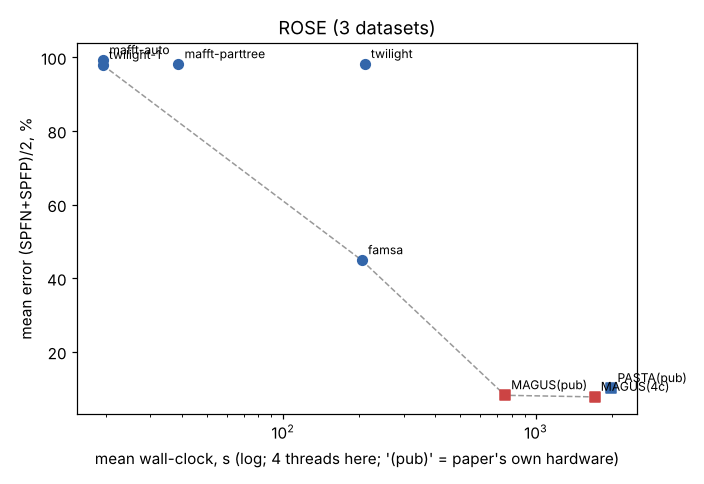
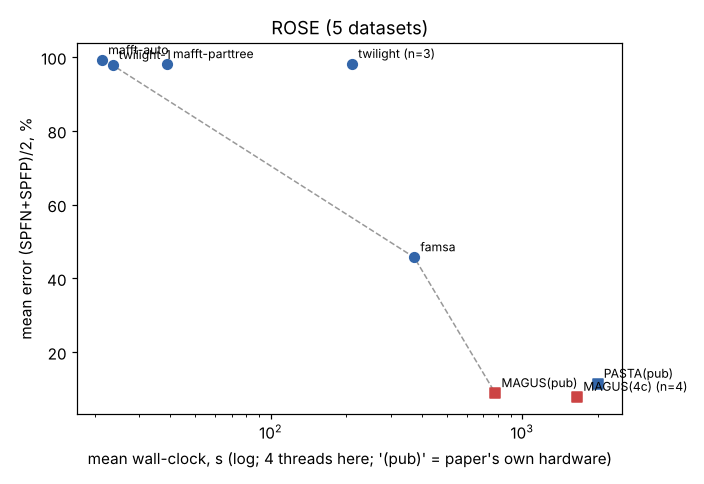
sota2026: more results (ROSE M, merge pilot BAliBASE)
Claude-Session: https://claude.ai/code/session_012Rgpxy2uEEPz2XSy4Tz17n

diff --git a/cs581/sota2026/REPORT_head.md b/cs581/sota2026/REPORT_head.md
@@ -1,0 +1,98 @@
+# Is MAGUS still state of the art, and is "MAGUS with a better base method" a good 4-week project?
+
+*CS581 project-idea pilot, 2026-10-10. Branch `claude/cs581-sota2026`. Code in `code/`, raw results in `results/`.
+About 4.5 hours of wall-clock on one 4-core / 15 GB cloud machine. Every number below was measured in this session,
+except where it says "published", which means FastSP rescoring of the MAGUS paper's own output alignments
+(`../experiments/validation/published_scores.jsonl`).*
+
+## 1. Questions
+
+1. On MAGUS's own benchmarks, is MAGUS (Smirnov & Warnow 2021) still the best accuracy/runtime trade-off against
+   aligners published since? Candidates: TWILIGHT (2025), FAMSA 2, MUSCLE5/Super5, Clustal Omega, MAFFT
+   (`--auto`, PartTree, L-INS-i) and learnMSA2.
+2. On MAGUS-sized subsets (about 40 and 200 sequences), is any of them more accurate than MAFFT L-INS-i? This is the
+   instructor's suggested first step for "study MAGUS with different base methods".
+3. (Added, because the harness made it cheap.) If a candidate swaps in for L-INS-i inside MAGUS, does MAGUS's
+   final alignment improve?
+
+## 2. Prior art (details and DOIs: `prior_art.md`)
+
+- **No independent 2023–2026 benchmark exists.** No paper runs TWILIGHT, FAMSA2, Muscle5, Clustal Omega and the MAFFT
+  modes against MAGUS, PASTA or UPP2 on MAGUS's nucleotide suite (ROSE 1000, RNASim, CRW 16S). Every nucleotide
+  comparison was run by the method's own developers.
+- **TWILIGHT** (Tseng et al., *Bioinformatics* 2025, doi:10.1093/bioinformatics/btaf212) is the only post-2023 paper
+  that compares a fast tool with MAGUS on nucleotides, and only on RNASim (10k–1M) and AliSim.
+  - At 10k sequences, MAGUS and Muscle5 are about 8% error. TWILIGHT reaches 6.5% at 1M sequences in 32 CPU-minutes.
+  - On AliSim long-branch data, MAGUS is best (8.3% vs about 9%).
+  - Competitors were given the *true* tree. There is no ROSE, CRW or BAliBASE.
+- **FAMSA2** (Nat Biotechnol 2026, doi:10.1038/s41587-026-03095-3) and **learnMSA2** (Bioinformatics 2024,
+  doi:10.1093/bioinformatics/btae381) are protein-only.
+  - learnMSA2 "supports only protein alignments". On CPU with language-model embeddings it takes about 3 h per
+    HomFam family (about 16× MAGUS).
+  - Neither paper compares against MAGUS on nucleotides.
+- **Muscle5** (Nat Commun 2022, doi:10.1038/s41467-022-34630-w) has no nucleotide benchmark beyond small Bralibase
+  RNA sets and no MAGUS comparison.
+- **UPP2** (2023, doi:10.1093/bioinformatics/btad007) is the broadest nucleotide comparison: UPP2 ≈ MAGUS are best on
+  ROSE and large 16S, and Clustal Omega is worst. It used MUSCLE 3.8, not 5.
+- **Base-method swaps exist only for PASTA, not MAGUS.**
+  - PASTA with BAli-Phy subsets (Nute & Warnow 2016, doi:10.1186/s12864-016-3101-8) has the best TC everywhere at
+    roughly 24 h/subset.
+  - PASTA with ProbCons or G-INS-i subsets has been tested on BAliBASE only (Collins & Warnow 2018,
+    doi:10.1093/bioinformatics/bty495).
+  - Beating L-INS-i on ≤ 200 nucleotide sequences has only been shown for BAli-Phy with a fixed tree (Gupta et al.
+    2021, doi:10.1093/bioinformatics/btab555).
+
+## 3. Data and methods
+
+**Data.** All from the MAGUS paper (Illinois Data Bank IDB-2643961):
+
+| set | replicates used | sequences | notes |
+|---|---|---|---|
+| ROSE 1000 L1–L3, M1–M4, S1–S3 | R0 of each of the 10 conditions | 1000 | simulated DNA, ~1000 nt; random pairs are near saturation (median p-distance 0.69–0.70 on L1/L2/M2) |
+| RNASim 1000 | R0 | 1000 | simulated RNA, ~1500 nt |
+| RNASim 10K | R0 | 10,000 | large (TWILIGHT's home turf) |
+| CRW 16S.T | R0 | 5,548 | large, biological, length-filtered reference |
+| BAliBASE RV100 (8 sets) | – | 195–732 | protein, length-filtered references (`../data/balibase_clean`) |
+
+**Tools** (4 threads, wall-clock per run, nothing else heavy running except where noted):
+- MAFFT 7.505 (`--auto`; PartTree `--retree 2 --parttree`; L-INS-i, plus G-INS-i and E-INS-i on subsets).
+- Clustal Omega 1.2.4; MUSCLE 5.3 (`-align`; Super5); FAMSA 2.4.1.
+- TWILIGHT 0.2.3 (`code/twilight_iter.py`).
+  - TWILIGHT 0.2.3's CLI needs a guide tree. I re-implemented its official Snakemake iterative mode:
+    a PartTree initial tree, TWILIGHT, then FastTree on the alignment with ≥ 95%-gap columns masked, then TWILIGHT
+    again; 3 iterations, the workflow default.
+  - DIPPER, the workflow's default tree tool, is not installed. "twilight-1" is one iteration on the PartTree tree.
+- learnMSA2 was not run: it is protein-only, and on CPU its own paper reports about 3 h per family.
+- Scoring: FastSP against the reference; error = (SPFN+SPFP)/2.
+
+**MAGUS reference points.**
+- *MAGUS(pub)*: the authors' published MAGUS(Fast) alignment of the same replicate, rescored. Its runtime is the
+  paper's own (different hardware).
+- *MAGUS(4c)*: earlier reruns of MAGUS(Fast) with the paper's flags on this same 4-core machine type
+  (`../experiments/runs/<rep>/prep.json`; 5 of the 8 BAliBASE sets; 16S.T and 1000M1 not available).
+- I did **not** rerun MAGUS fresh in this session. At 15–35 min per 1000-sequence dataset (and over 1 h for 16S.T) it
+  did not fit the budget next to the other runs. The 4c measurements and two dedicated idle-machine timing sessions
+  (1000L3_R0: 1857 s, 1000S2_R0: 969 s, BBA0101: 798 s; branches `cs581-timing-a/b`) give MAGUS's cost on this
+  hardware.
+
+**Statistics.**
+- Paired by replicate: mean Δerror in points, W/T/L with a ±0.05 tie band, Wilcoxon signed-rank p.
+- With one replicate per ROSE condition, "paired by replicate" means paired across conditions.
+
+**Subset test** (`code/subsets.py`):
+- *magus40*: 2 of MAGUS's own 25 decomposition subsets per replicate (≈ 40 sequences, clade-like), from the cached
+  MAGUS runs. 30 subsets over 15 replicates: 9 ROSE, RNASim, 16S.M and 4 BAliBASE.
+- *bb200*: MAGUS's first 200-sequence backbone (8 random sequences per subset).
+- *rand40*: 40 uniformly random sequences.
+- Baseline: MAGUS's exact subset command (`mafft --localpair --maxiterate 1000 --ep 0.123`), rerun here. It
+  reproduces MAGUS's cached subset alignments: 26 of 30 identical, the rest within ±0.3 points (MAFFT 7.450 vs 7.505).
+- Subset jobs ran single-threaded.
+
+**Merge pilot** (`code/merge_pilot.py`):
+- For a replicate with a cached MAGUS run, realign MAGUS's 25 subsets with tool X.
+- Keep MAGUS's own 10 L-INS-i backbones, run only the GCM merge (`gcmx.run_magus -s -b`, paper flags), and score.
+- The control (MAGUS's own L-INS-i subsets) reproduces MAGUS(4c) exactly (e.g. BBA0067: 26.28 vs 26.28).
+
+**Timing caveat.** To fit the budget, one or two single-threaded subset or merge jobs ran alongside the 4-thread
+full-dataset runs from about 02:05 UTC onwards. Wall-clock for the fast tools is therefore an upper bound, perhaps
+up to ~1.5× inflated. That matters little next to the 10–100× gaps to MAGUS.

diff --git a/cs581/sota2026/results/full_table.md b/cs581/sota2026/results/full_table.md
@@ -17,18 +17,20 @@ MAGUS(pub)/PASTA(pub) = FastSP on the authors' published alignment of the same r
 | BBA0154_R0 | 21.1 (562s) | 21.7 (1106s) | 22.5 (307s) | 25.3 (77s) | 25.4 (6s) | 26.3 (55s) | 25.7 (2s) | 25.1 (7s) |
 | BBA0190_R0 | 23.1 (1117s) | 23.4 (2177s) | 23.9 (879s) | 33.7 (97s) | 26.0 (16s) | 30.4 (80s) | 26.9 (4s) | 26.5 (18s) |
 | 16S.T_R0 | 9.9 (2918s) |  | 12.9 (6979s) | 17.6 (123s) | 12.7 (78s) |  | 18.8 (215s) | 19.4 (241s) |
+| 1000M1_R0 | 11.5 (674s) |  | 13.0 (1993s) | 50.4 (773s) | 97.6 (30s) |  | 98.1 (39s) | 99.2 (25s) |
+| 1000M2_R0 | 8.3 (968s) | 8.2 (1493s) | 13.7 (2007s) | 43.6 (471s) | 97.9 (30s) |  | 98.0 (38s) | 99.0 (23s) |
 
 ## Paired comparison vs published MAGUS(Fast), same replicate (Δ = tool − MAGUS, points; W/T/L = tool better/tie(±0.05)/worse; Wilcoxon signed-rank)
 
 | data | tool | n | mean Δ | W/T/L | p |
 |---|---|---|---|---|---|
-| ROSE | famsa | 3 | +36.7 | 0/0/3 | – |
-| ROSE | twilight-1 | 3 | +89.7 | 0/0/3 | – |
+| ROSE | famsa | 5 | +36.9 | 0/0/5 | 0.062 |
+| ROSE | twilight-1 | 5 | +89.0 | 0/0/5 | 0.062 |
 | ROSE | twilight | 3 | +90.0 | 0/0/3 | – |
-| ROSE | mafft-parttree | 3 | +89.9 | 0/0/3 | – |
-| ROSE | mafft-auto | 3 | +91.0 | 0/0/3 | – |
-| ROSE | MAGUS(4c) | 3 | -0.4 | 2/0/1 | – |
-| ROSE | PASTA(pub) | 3 | +1.9 | 0/0/3 | – |
+| ROSE | mafft-parttree | 5 | +89.2 | 0/0/5 | 0.062 |
+| ROSE | mafft-auto | 5 | +90.3 | 0/0/5 | 0.062 |
+| ROSE | MAGUS(4c) | 4 | -0.3 | 2/1/1 | – |
+| ROSE | PASTA(pub) | 5 | +2.6 | 0/0/5 | 0.062 |
 | RNASim | twilight-1 | 1 | +4.8 | 0/0/1 | – |
 | RNASim | twilight | 1 | +1.5 | 0/0/1 | – |
 | RNASim | mafft-parttree | 1 | +14.1 | 0/0/1 | – |
@@ -47,10 +49,10 @@ MAGUS(pub)/PASTA(pub) = FastSP on the authors' published alignment of the same r
 | 16S | mafft-parttree | 1 | +8.9 | 0/0/1 | – |
 | 16S | mafft-auto | 1 | +9.4 | 0/0/1 | – |
 | 16S | PASTA(pub) | 1 | +3.0 | 0/0/1 | – |
-| all | famsa | 12 | +14.9 | 0/0/12 | 0.00049 |
-| all | twilight-1 | 13 | +27.9 | 0/0/13 | 0.00024 |
+| all | famsa | 14 | +18.1 | 0/0/14 | 0.00012 |
+| all | twilight-1 | 15 | +35.9 | 0/0/15 | 6.1e-05 |
 | all | twilight | 12 | +28.6 | 0/0/12 | 0.00049 |
-| all | mafft-parttree | 13 | +28.5 | 0/0/13 | 0.00024 |
-| all | mafft-auto | 13 | +26.2 | 0/0/13 | 0.00024 |
-| all | MAGUS(4c) | 9 | +0.2 | 2/0/7 | 0.36 |
-| all | PASTA(pub) | 13 | +2.4 | 2/0/11 | 0.0024 |
+| all | mafft-parttree | 15 | +36.4 | 0/0/15 | 6.1e-05 |
+| all | mafft-auto | 15 | +34.6 | 0/0/15 | 6.1e-05 |
+| all | MAGUS(4c) | 10 | +0.1 | 2/1/7 | 0.32 |
+| all | PASTA(pub) | 15 | +2.5 | 2/0/13 | 0.00061 |

diff --git a/cs581/sota2026/results/merge_table.md b/cs581/sota2026/results/merge_table.md
@@ -7,6 +7,10 @@ Same MAGUS decomposition (25 subsets) and the same 10 MAFFT L-INS-i backbones as
 | 1000L3_R0 | L-INS-i (MAGUS's own) | 6.22 | 11.28 | – | – |
 | 1000M2_R0 | L-INS-i (MAGUS's own) | 3.88 | 8.23 | – | – |
 | 16S.M_R0 | L-INS-i (MAGUS's own) | 6.97 | 12.86 | – | – |
+| BBA0039_R0 | L-INS-i (MAGUS's own) | 2.72 | 4.69 | – | – |
+| BBA0039_R0 | clustalo | 2.50 | 4.45 | -0.24 | 9 |
+| BBA0039_R0 | mafft-ginsi | 2.75 | 4.64 | -0.05 | 28 |
+| BBA0039_R0 | muscle5 | 2.58 | 4.48 | -0.21 | 127 |
 | BBA0067_R0 | L-INS-i (MAGUS's own) | 19.44 | 26.28 | – | – |
 | BBA0067_R0 | clustalo | 18.93 | 25.97 | -0.31 | 4 |
 | BBA0067_R0 | mafft-ginsi | 19.40 | 26.20 | -0.09 | 16 |
@@ -20,11 +24,13 @@ Same MAGUS decomposition (25 subsets) and the same 10 MAFFT L-INS-i backbones as
 | BBA0154_R0 | mafft-ginsi | 8.06 | 21.65 | -0.01 | 16 |
 | BBA0154_R0 | muscle5 | 7.78 | 21.86 | +0.20 | 54 |
 | BBA0190_R0 | L-INS-i (MAGUS's own) | 7.26 | 23.40 | – | – |
+| BBA0190_R0 | clustalo | 6.96 | 22.98 | -0.42 | 20 |
 | BBA0190_R0 | mafft-ginsi | 7.40 | 23.55 | +0.15 | 34 |
+| BBA0190_R0 | muscle5 | 7.04 | 22.98 | -0.42 | 130 |
 | RNASim_R0 | L-INS-i (MAGUS's own) | 4.92 | 9.92 | – | – |
 
 | data | base method | n | mean Δ | better/tie/worse |
 |---|---|---|---|---|
-| BAliBASE | clustalo | 3 | -0.33 | 3/0/0 |
-| BAliBASE | mafft-ginsi | 4 | +0.05 | 1/1/2 |
-| BAliBASE | muscle5 | 3 | -0.60 | 2/0/1 |
+| BAliBASE | clustalo | 5 | -0.33 | 5/0/0 |
+| BAliBASE | mafft-ginsi | 5 | +0.03 | 1/2/2 |
+| BAliBASE | muscle5 | 5 | -0.48 | 4/0/1 |

diff --git a/cs581/sota2026/results/subset_table.md b/cs581/sota2026/results/subset_table.md
@@ -20,12 +20,12 @@
 | rand40 | twilight | 16 | 64.8 | +37.17 | 0/0/16 | 3.1e-05 | 11 |
 | rand40 | clustalo | 16 | 54.6 | +26.95 | 1/0/15 | 6.1e-05 | 4 |
 | rand40 | mafft-auto | 16 | 34.0 | +6.41 | 6/1/9 | 0.12 | 28 |
-| bb200 | cached-linsi | 3 | 25.7 | -0.29 | 2/1/0 | – | – |
-| bb200 | mafft-linsi-magus | 3 | 26.0 | +0.00 | 0/3/0 | – | 370 |
-| bb200 | mafft-ginsi | 3 | 27.2 | +1.23 | 1/0/2 | – | 374 |
-| bb200 | famsa | 3 | 87.8 | +61.80 | 0/0/3 | – | 4 |
-| bb200 | twilight | 3 | 97.4 | +71.46 | 0/0/3 | – | 56 |
-| bb200 | clustalo | 3 | 84.2 | +58.24 | 0/0/3 | – | 131 |
+| bb200 | cached-linsi | 5 | 20.3 | -0.19 | 3/1/1 | 0.19 | – |
+| bb200 | mafft-linsi-magus | 5 | 20.5 | +0.00 | 0/5/0 | – | 480 |
+| bb200 | mafft-ginsi | 5 | 21.1 | +0.62 | 3/0/2 | 0.81 | 478 |
+| bb200 | famsa | 5 | 65.2 | +44.73 | 0/0/5 | 0.062 | 80 |
+| bb200 | twilight | 5 | 64.5 | +44.00 | 0/0/5 | 0.062 | 51 |
+| bb200 | clustalo | 5 | 59.2 | +38.70 | 0/0/5 | 0.062 | 98 |
 
 ### magus40 by data type (mean Δ vs L-INS-i, points)
 
